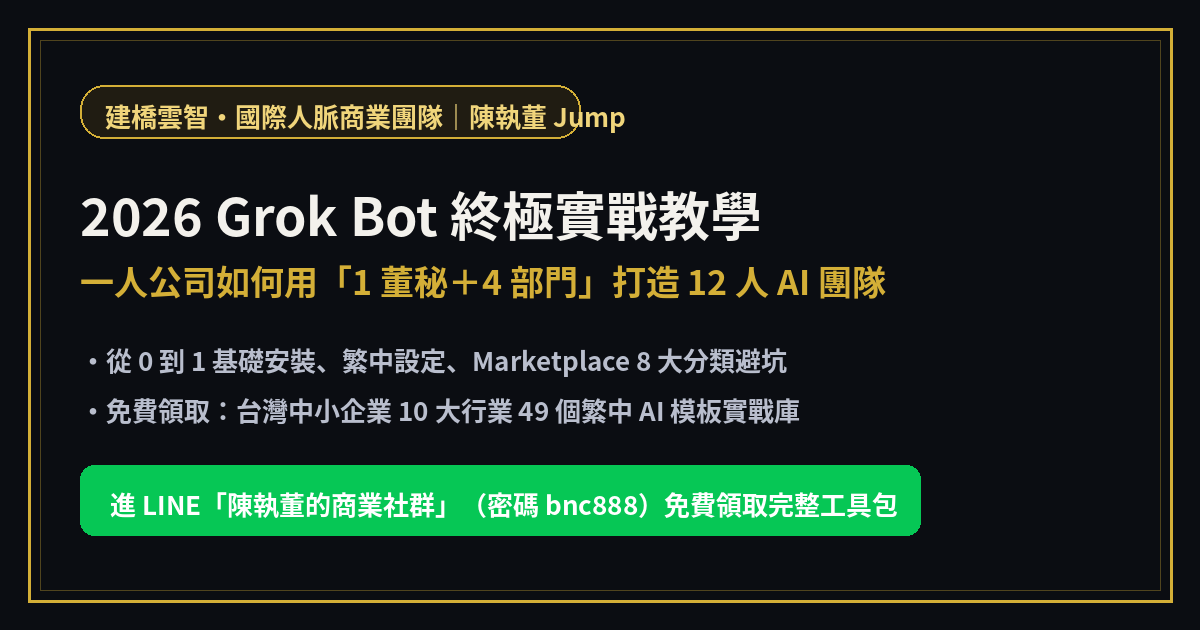
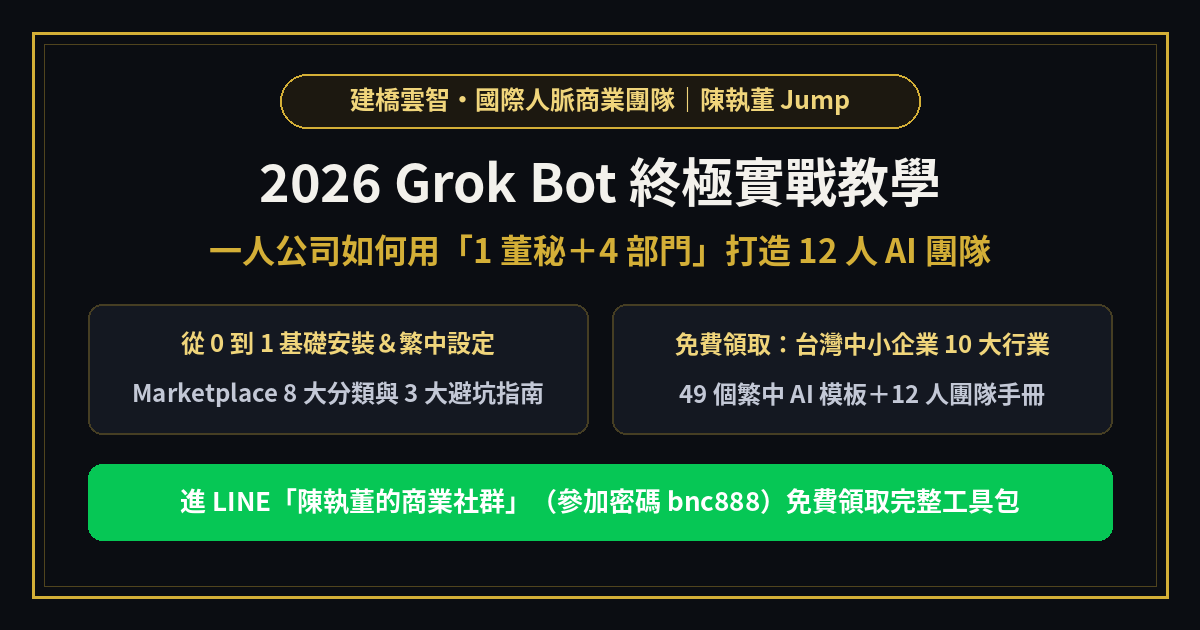
style(align): enforce CSS Grid equal-height cards and mathematical visual alignment across jump-ai pages and OG image

Changed region(s): [[0.0, 0.0302, 0.9867, 0.9651], [0.0617, 0.7238, 0.925, 0.8746]]

diff --git a/grok-bot-guide/index.html b/grok-bot-guide/index.html
@@ -289,7 +289,7 @@ a { color: var(--gold-light); text-decoration: underline; text-underline-offset:
   gap: 12px;
 }
 @media (min-width: 640px) {
-  .btn-row { grid-template-columns: 1fr 1fr; }
+  .btn-row { grid-template-columns: 1fr; }
 }
 .btn-line {
   display: inline-flex;
@@ -394,6 +394,47 @@ a { color: var(--gold-light); text-decoration: underline; text-underline-offset:
   color: var(--text-dim);
   font-size: 13px;
   border-top: 1px solid var(--border-subtle);
+}
+
+/* STRICT VISUAL ALIGNMENT RULES (CSS Grid Equal-Height & Symmetric Centering) */
+.plan-grid, .compare-grid, .step-grid, .grid-2, .btn-row {
+  display: grid;
+  align-items: stretch;
+}
+.plan-card, .compare-box, .step-card {
+  display: flex;
+  flex-direction: column;
+  justify-content: space-between;
+  height: 100%;
+  box-sizing: border-box;
+}
+.pwd-bar {
+  display: flex;
+  align-items: center;
+  justify-content: space-between;
+  gap: 16px;
+}
+.btn-line, .btn-gold, .btn-outline, .sticky-btn {
+  display: inline-flex;
+  align-items: center;
+  justify-content: center;
+  text-align: center;
+  width: 100%;
+  box-sizing: border-box;
+}
+.pwd-bar .btn-outline {
+  width: auto;
+  flex-shrink: 0;
+}
+@media (max-width: 640px) {
+  .pwd-bar {
+    flex-direction: column;
+    text-align: center;
+    justify-content: center;
+  }
+  .pwd-bar .btn-outline {
+    width: 100%;
+  }
 }
 </style>
 </head>

diff --git a/jump-ai/grok-bot-guide/index.html b/jump-ai/grok-bot-guide/index.html
@@ -289,7 +289,7 @@ a { color: var(--gold-light); text-decoration: underline; text-underline-offset:
   gap: 12px;
 }
 @media (min-width: 640px) {
-  .btn-row { grid-template-columns: 1fr 1fr; }
+  .btn-row { grid-template-columns: 1fr; }
 }
 .btn-line {
   display: inline-flex;
@@ -394,6 +394,47 @@ a { color: var(--gold-light); text-decoration: underline; text-underline-offset:
   color: var(--text-dim);
   font-size: 13px;
   border-top: 1px solid var(--border-subtle);
+}
+
+/* STRICT VISUAL ALIGNMENT RULES (CSS Grid Equal-Height & Symmetric Centering) */
+.plan-grid, .compare-grid, .step-grid, .grid-2, .btn-row {
+  display: grid;
+  align-items: stretch;
+}
+.plan-card, .compare-box, .step-card {
+  display: flex;
+  flex-direction: column;
+  justify-content: space-between;
+  height: 100%;
+  box-sizing: border-box;
+}
+.pwd-bar {
+  display: flex;
+  align-items: center;
+  justify-content: space-between;
+  gap: 16px;
+}
+.btn-line, .btn-gold, .btn-outline, .sticky-btn {
+  display: inline-flex;
+  align-items: center;
+  justify-content: center;
+  text-align: center;
+  width: 100%;
+  box-sizing: border-box;
+}
+.pwd-bar .btn-outline {
+  width: auto;
+  flex-shrink: 0;
+}
+@media (max-width: 640px) {
+  .pwd-bar {
+    flex-direction: column;
+    text-align: center;
+    justify-content: center;
+  }
+  .pwd-bar .btn-outline {
+    width: 100%;
+  }
 }
 </style>
 </head>

diff --git a/jump-ai/index.html b/jump-ai/index.html
@@ -289,7 +289,7 @@ a { color: var(--gold-light); text-decoration: underline; text-underline-offset:
   gap: 12px;
 }
 @media (min-width: 640px) {
-  .btn-row { grid-template-columns: 1fr 1fr; }
+  .btn-row { grid-template-columns: 1fr; }
 }
 .btn-line {
   display: inline-flex;
@@ -394,6 +394,47 @@ a { color: var(--gold-light); text-decoration: underline; text-underline-offset:
   color: var(--text-dim);
   font-size: 13px;
   border-top: 1px solid var(--border-subtle);
+}
+
+/* STRICT VISUAL ALIGNMENT RULES (CSS Grid Equal-Height & Symmetric Centering) */
+.plan-grid, .compare-grid, .step-grid, .grid-2, .btn-row {
+  display: grid;
+  align-items: stretch;
+}
+.plan-card, .compare-box, .step-card {
+  display: flex;
+  flex-direction: column;
+  justify-content: space-between;
+  height: 100%;
+  box-sizing: border-box;
+}
+.pwd-bar {
+  display: flex;
+  align-items: center;
+  justify-content: space-between;
+  gap: 16px;
+}
+.btn-line, .btn-gold, .btn-outline, .sticky-btn {
+  display: inline-flex;
+  align-items: center;
+  justify-content: center;
+  text-align: center;
+  width: 100%;
+  box-sizing: border-box;
+}
+.pwd-bar .btn-outline {
+  width: auto;
+  flex-shrink: 0;
+}
+@media (max-width: 640px) {
+  .pwd-bar {
+    flex-direction: column;
+    text-align: center;
+    justify-content: center;
+  }
+  .pwd-bar .btn-outline {
+    width: 100%;
+  }
 }
 </style>
 </head>

diff --git a/gift/index.html b/gift/index.html
@@ -437,6 +437,51 @@ a { color: inherit; }
   border-top: 1px solid var(--border-subtle);
   margin-top: 48px;
 }
+
+/* STRICT VISUAL ALIGNMENT RULES (CSS Grid Equal-Height & 2x2 Symmetric Button Grid) */
+.download-row {
+  display: grid !important;
+  grid-template-columns: repeat(2, minmax(0, 1fr));
+  gap: 12px;
+  align-items: stretch;
+  margin-top: 18px;
+}
+.download-row a, .download-row button {
+  display: inline-flex !important;
+  align-items: center;
+  justify-content: center;
+  text-align: center;
+  width: 100%;
+  height: 100%;
+  min-height: 50px;
+  box-sizing: border-box;
+}
+.card-grid, .cta-grid {
+  display: grid !important;
+  align-items: stretch !important;
+}
+.info-card, .cta-card {
+  display: flex !important;
+  flex-direction: column !important;
+  justify-content: space-between !important;
+  height: 100% !important;
+  box-sizing: border-box !important;
+}
+.cta-card .btn-gold, .cta-card .btn-outline-gold {
+  display: inline-flex;
+  align-items: center;
+  justify-content: center;
+  text-align: center;
+  width: 100%;
+  min-height: 48px;
+  margin-top: auto;
+  box-sizing: border-box;
+}
+@media (max-width: 720px) {
+  .download-row {
+    grid-template-columns: 1fr;
+  }
+}
 </style>
 </head>
 <body>

diff --git a/jump-ai/gift/index.html b/jump-ai/gift/index.html
@@ -437,6 +437,51 @@ a { color: inherit; }
   border-top: 1px solid var(--border-subtle);
   margin-top: 48px;
 }
+
+/* STRICT VISUAL ALIGNMENT RULES (CSS Grid Equal-Height & 2x2 Symmetric Button Grid) */
+.download-row {
+  display: grid !important;
+  grid-template-columns: repeat(2, minmax(0, 1fr));
+  gap: 12px;
+  align-items: stretch;
+  margin-top: 18px;
+}
+.download-row a, .download-row button {
+  display: inline-flex !important;
+  align-items: center;
+  justify-content: center;
+  text-align: center;
+  width: 100%;
+  height: 100%;
+  min-height: 50px;
+  box-sizing: border-box;
+}
+.card-grid, .cta-grid {
+  display: grid !important;
+  align-items: stretch !important;
+}
+.info-card, .cta-card {
+  display: flex !important;
+  flex-direction: column !important;
+  justify-content: space-between !important;
+  height: 100% !important;
+  box-sizing: border-box !important;
+}
+.cta-card .btn-gold, .cta-card .btn-outline-gold {
+  display: inline-flex;
+  align-items: center;
+  justify-content: center;
+  text-align: center;
+  width: 100%;
+  min-height: 48px;
+  margin-top: auto;
+  box-sizing: border-box;
+}
+@media (max-width: 720px) {
+  .download-row {
+    grid-template-columns: 1fr;
+  }
+}
 </style>
 </head>
 <body>
